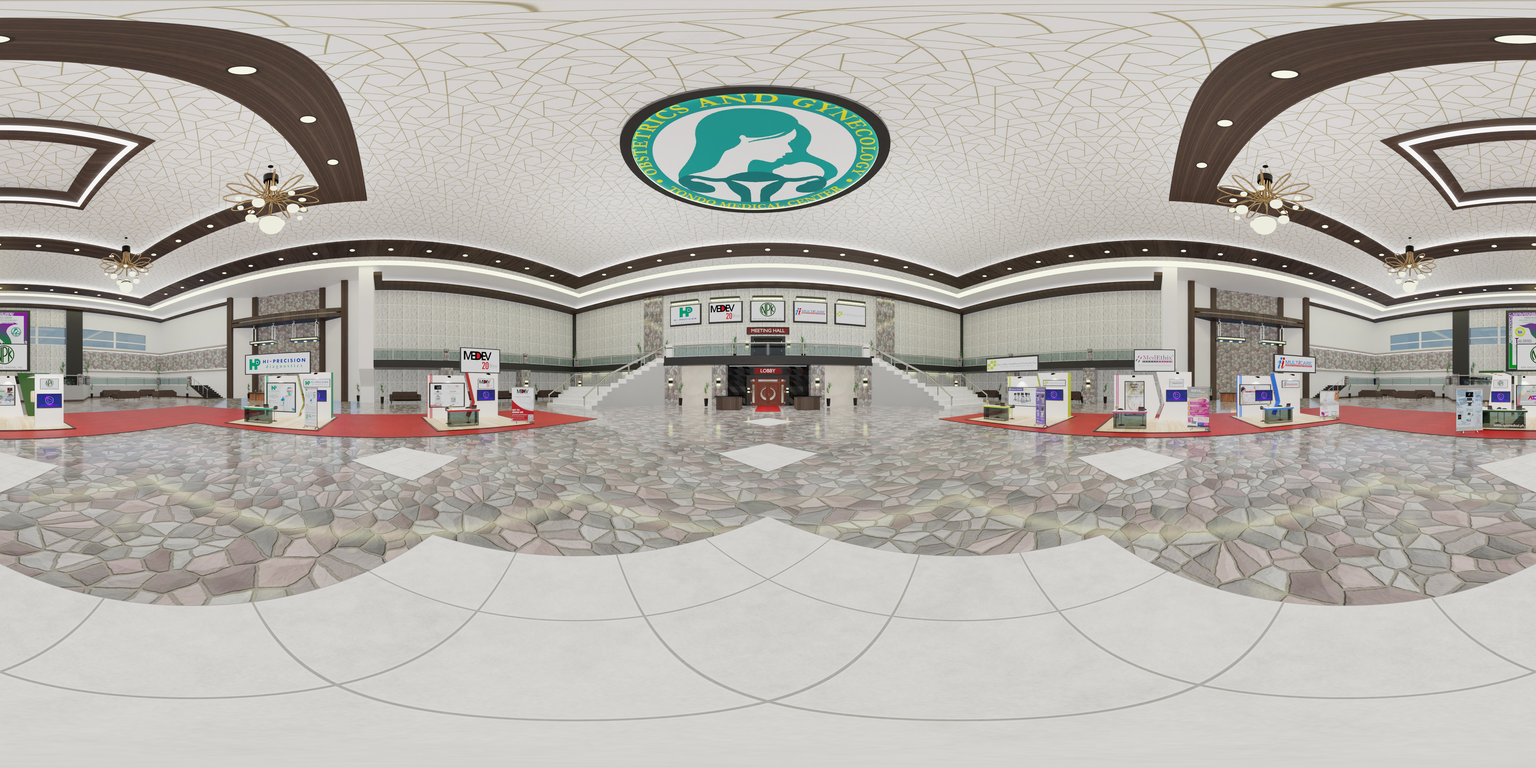
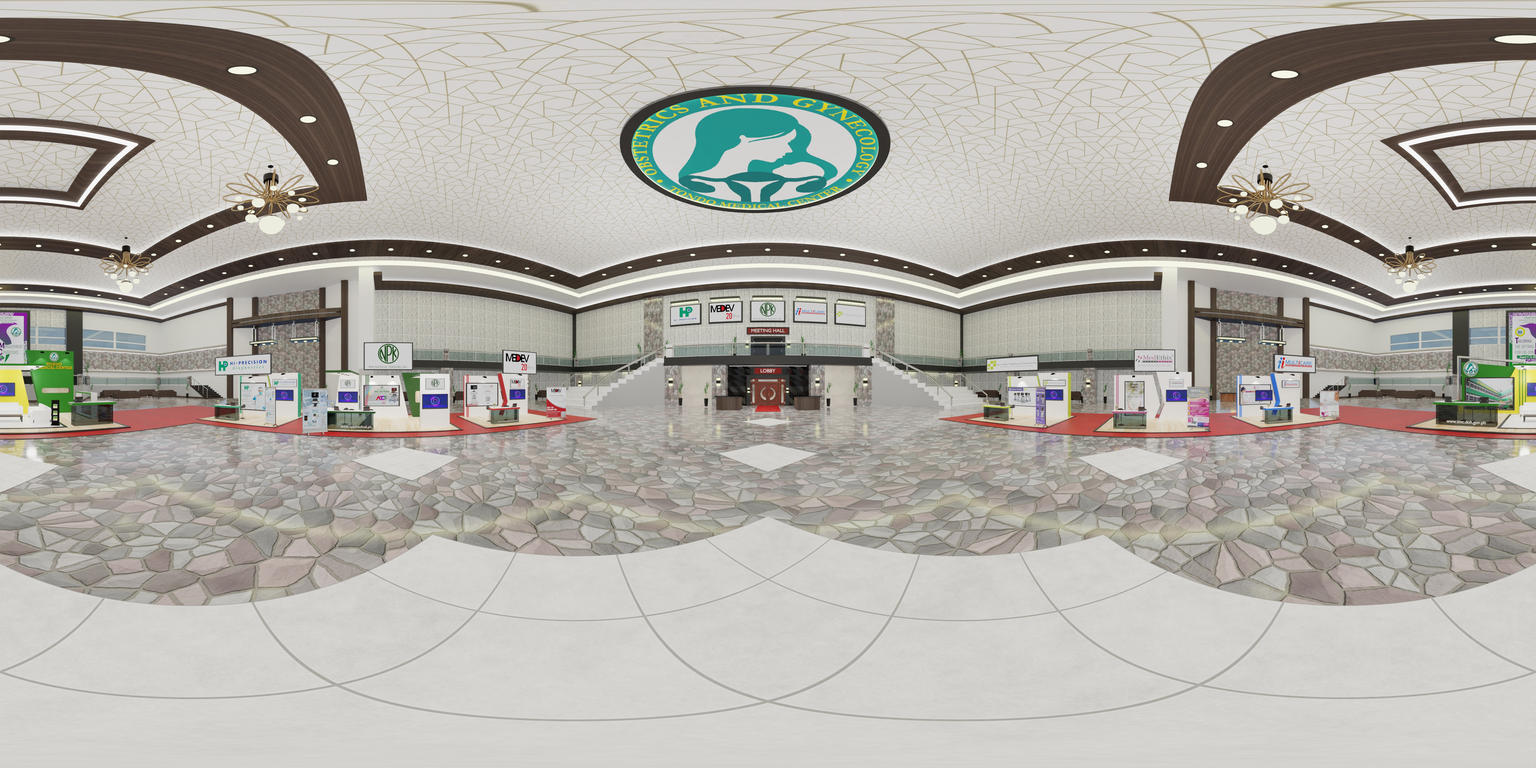
Add TMC booth and Concern details at Event Panel

Changed region(s): [[0.1247, 0.434, 0.374, 0.62], [0.9038, 0.403, 1.0, 0.62], [0.0, 0.434, 0.0935, 0.62]]

diff --git a/resources/js/components/Login.vue b/resources/js/components/Login.vue
@@ -70,6 +70,12 @@
                                 ></span
                             >
                         </p>
+
+                        <p class="concerns mt-3 text-light">
+                            Any concerns or inquiries, please text the following numbers:<br>
+                            Dr. Aceveda at 09065103974 or <br>
+                            Tondo Medical center OBGYN at 09812464532.
+                        </p>
                     </div>
 
                     <div class="border_bot">
@@ -848,6 +854,17 @@ div.full {
         Ubuntu, Cantarell, "Open Sans", "Helvetica Neue", sans-serif;
 }
 
+.concerns{
+    text-align: center;
+    border: 1px solid #fff;
+    padding: 0.2em;
+    font-size: 1.2rem;
+    font-weight: 300;
+    line-height: 1.2;
+    font-family: -apple-system, BlinkMacSystemFont, "Segoe UI", Roboto, Oxygen,
+        Ubuntu, Cantarell, "Open Sans", "Helvetica Neue", sans-serif;
+}
+
 .border_bot {
     margin: 0 20px;
     border-bottom: 2px solid #ccc;
@@ -1083,6 +1100,13 @@ div.full {
         line-height: 1.2;
         margin: 0;
     }
+    .concerns{
+        text-align: center;
+        border: 1px solid #fff;
+        /* padding: 2.1999999999999993em; */
+        font-size: 0.5rem;
+        font-weight: 300;
+    }
 
     .btn_pink {
         font-size: 1rem;
@@ -1128,6 +1152,12 @@ div.full {
         font-weight: 600;
         line-height: 1.2;
         margin: 0;
+    }
+    .concerns {
+        text-align: center;
+        border: 1px solid #fff;
+        font-size: 0.5rem;
+        font-weight: 300;
     }
 
     .btn_pink {
@@ -1177,6 +1207,12 @@ div.full {
         line-height: 1.2;
         margin: 0 3rem;
     }
+    .concerns {
+        text-align: center;
+        border: 1px solid #fff;
+        font-size: 0.9rem;
+        font-weight: 300;
+    }
 
     .btn_pink {
         font-size: 1.3rem;
@@ -1198,6 +1234,51 @@ div.full {
 
     .video-container video {
         height: 85%;
+    }
+}
+
+@media screen and (max-width:1024px) and (-webkit-min-device-pixel-ratio:0){
+    .concerns {
+        text-align: center;
+        border: 1px solid #fff;
+        font-size: 0.7rem;
+        font-weight: 300;
+    }
+
+    .event_info .card-title {
+        font-size: 0.8rem;
+    }
+
+    .event_info .card-body h1 {
+        font-size: 0.88rem;
+        line-height: 1.1;
+    }
+
+    .event_date_box {
+        text-align: center;
+        border: 1px solid #fff;
+        font-size: 0.5rem;
+        font-weight: 600;
+        line-height: 1.2;
+        margin: 0;
+    }
+
+    .btn_pink {
+        font-size: 1rem;
+        margin-top: 1rem !important;
+    }
+
+    .lead {
+        font-size: 0.55rem;
+    }
+
+    .lead a {
+        font-size: 0.55rem;
+        position: relative;
+    }
+
+    .event_info_footer {
+        padding: 0;
     }
 }
 

diff --git a/database/seeders/BoothSeeder.php b/database/seeders/BoothSeeder.php
@@ -67,22 +67,34 @@ class BoothSeeder extends Seeder
 
             'Hall A' => [
                 // left facing lobby/ hall a exit
-                ['MEDEV', -1.42, -63.18, 'bronze', "MEDEV.png", "MEDEV.png",
+                ['MEDEV', -0.69, -55.27, 'bronze', "MEDEV.png", "MEDEV.png",
                     [
                         ['External Link', '-15.38','-14.14','https://medev.com.ph'],
                         ['Contact Us','-9.36','-6.93',''],
-                        // ['Quiz', '-8.38','-18.01',''],
+                        ['Quiz', '-8.38','-18.01',''],
                         ['Brochures', '-1.68','-3.50',''],
                         ['Videos', '-2.19','10.67',''],
                         ['Gallery', '-1.68','-12.85','']
                     ]
                 ],
+
+                ['NPK', -0.82, -89.71, 'silver', "NPK.png", "NPK.png",
+                    [
+                        ['External Link', '-14.64','-19.15','https://npkmedical.ph'],
+                        ['Contact Us','-8.62','-10.57',''],
+                        ['Quiz', '-7.73','-26.06',''],
+                        ['Brochures', '-2.19','14.83',''],
+                        ['Videos', '-2.20','-14.82',''],
+                        ['Gallery', '-1.36','-1.40','']
+                    ]
+                ],
+
                 // SPONSOR_R2
-                ['Hi-Precision', -1.62, -117.94, 'bronze', "Hi-Precision.png", "Hi-Precision.png",
+                ['Hi-Precision', -0.75, -126.16, 'bronze', "Hi-Precision.png", "Hi-Precision.png",
                     [
                         ['External Link', '-15.62','-13.63','https://hi-precision.com.ph'],
                         ['Contact Us','-9.58','-6.93',''],
-                        // ['Quiz', '-8.52','-17.68',''],
+                        ['Quiz', '-8.52','-17.68',''],
                         ['Brochures', '-3.00','-2.77',''],
                         ['Videos', '-1.87','10.58',''],
                         ['Gallery', '-3.00','-13.71','']
@@ -90,14 +102,14 @@ class BoothSeeder extends Seeder
                 ],
 
                 // SPONSOR_R3
-                ['NPK', -2.34, -179.85, 'silver', "NPK.png", "NPK.png",
+                ['Tondo Medical Center', -2.34, -179.85, 'gold', "tondoMC.png", "tondoMC.png",
                     [
-                        ['External Link', '-14.64','-19.15','https://npkmedical.ph'],
-                        ['Contact Us','-8.62','-10.57',''],
-                        // ['Quiz', '-7.73','-26.06',''],
-                        ['Brochures', '-2.19','14.83',''],
-                        ['Videos', '-2.20','-14.82',''],
-                        ['Gallery', '-1.36','-1.40','']
+                        ['External Link', '-10.84','-29.08','https://tmc.doh.gov.ph'],
+                        ['Contact Us','-6.99','-21.78',''],
+                        ['Quiz', '-6.12','-34.22',''],
+                        ['Brochures', '-11.77','22.33',''],
+                        ['Videos', '-1.81','0.99',''],
+                        ['Gallery', '-2.63','-16.00','']
                     ]
                 ],
 
@@ -107,7 +119,7 @@ class BoothSeeder extends Seeder
                     [
                         ['External Link', '-15.28','-13.80','https://journeytomotherhoodandbeyond.info'],
                         ['Contact Us','-9.23','-6.75',''],
-                        // ['Quiz', '-8.81','-17.10',''],
+                        ['Quiz', '-8.81','-17.10',''],
                         ['Brochures', '-1.18','-1.59',''],
                         ['Videos', '-2.41','11.19',''],
                         ['Gallery', '-1.16','-11.11','']
@@ -118,7 +130,7 @@ class BoothSeeder extends Seeder
                     [
                         ['External Link', '-15.11','-13.88','https://tahealthcaregroup.com'],
                         ['Contact Us','-9.32','-6.84',''],
-                        // ['Quiz', '-8.35','-17.68',''],
+                        ['Quiz', '-8.35','-17.68',''],
                         ['Brochures', '-2.81','-2.86',''],
                         ['Videos', '-2.14','10.50',''],
                         ['Gallery', '-2.81','-13.54','']
@@ -130,7 +142,7 @@ class BoothSeeder extends Seeder
                     [
                         ['External Link', '-15.11','-13.88','https://medethix.com.ph'],
                         ['Contact Us','-9.32','-6.84',''],
-                        // ['Quiz', '-9.32','-17.68',''],
+                        ['Quiz', '-9.32','-17.68',''],
                         ['Brochures', '-2.81','-2',''],
                         ['Videos', '-2.14','10.50',''],
                         ['Gallery', '-2.81','-13.54','']
